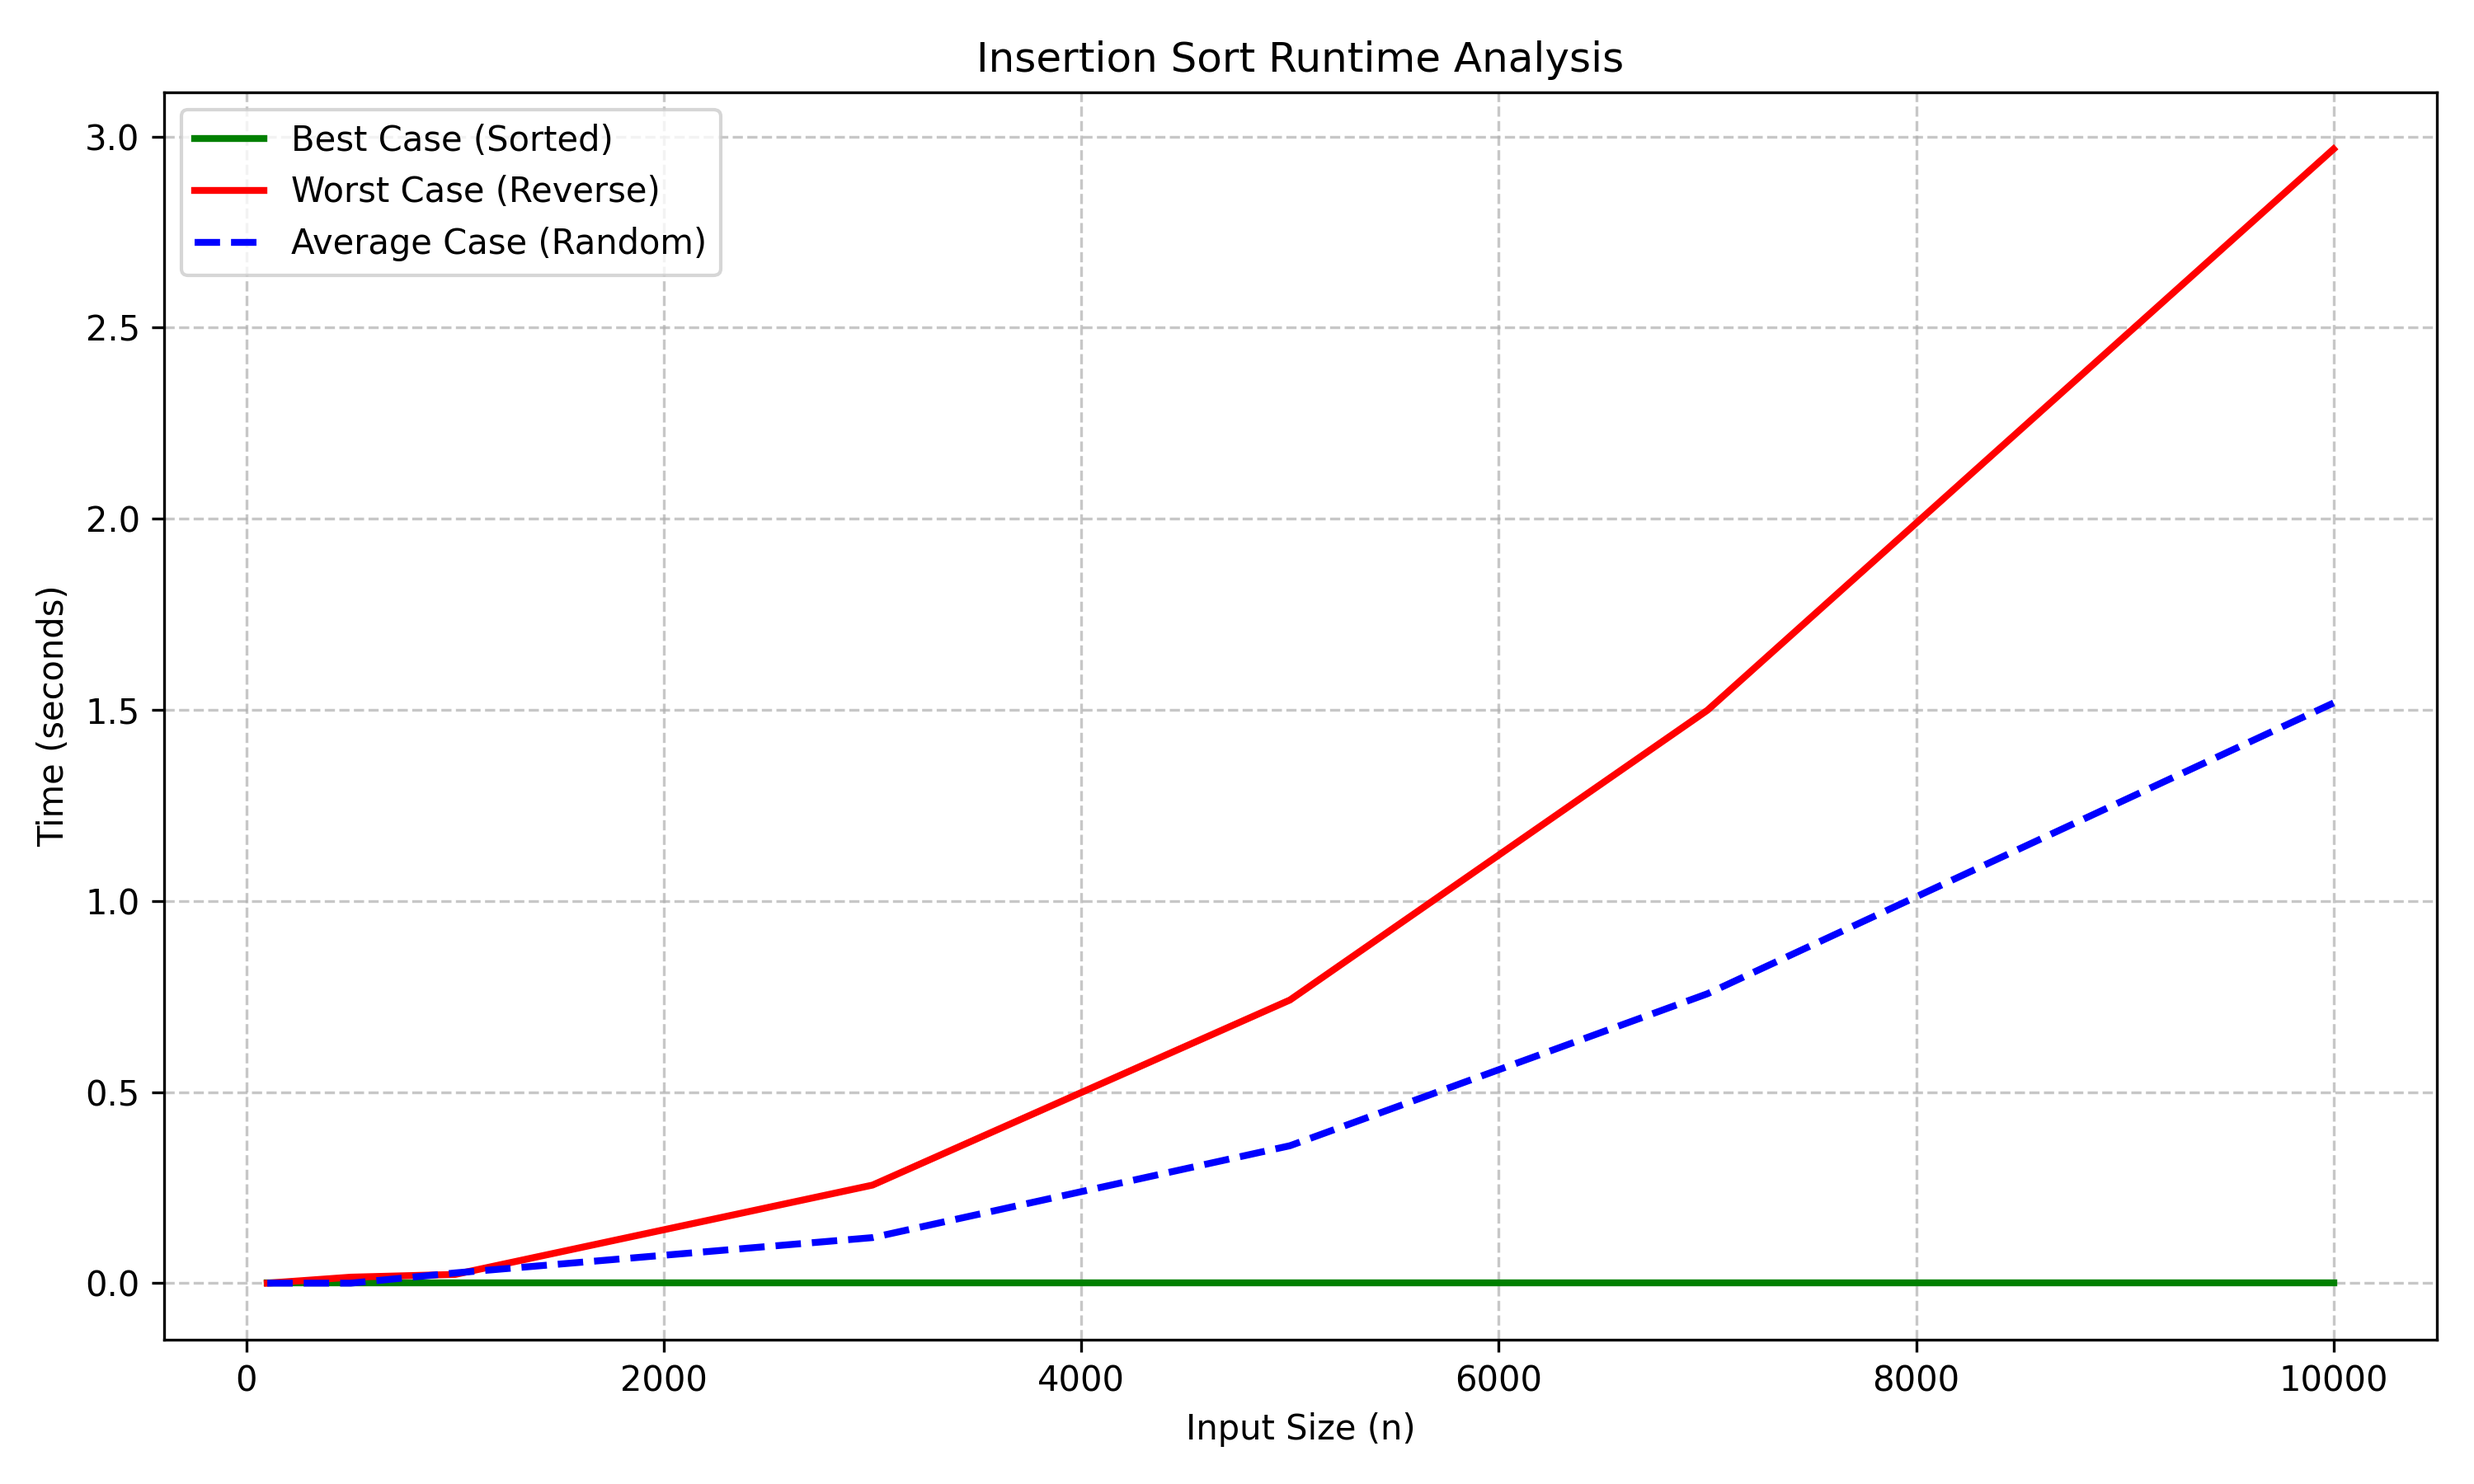
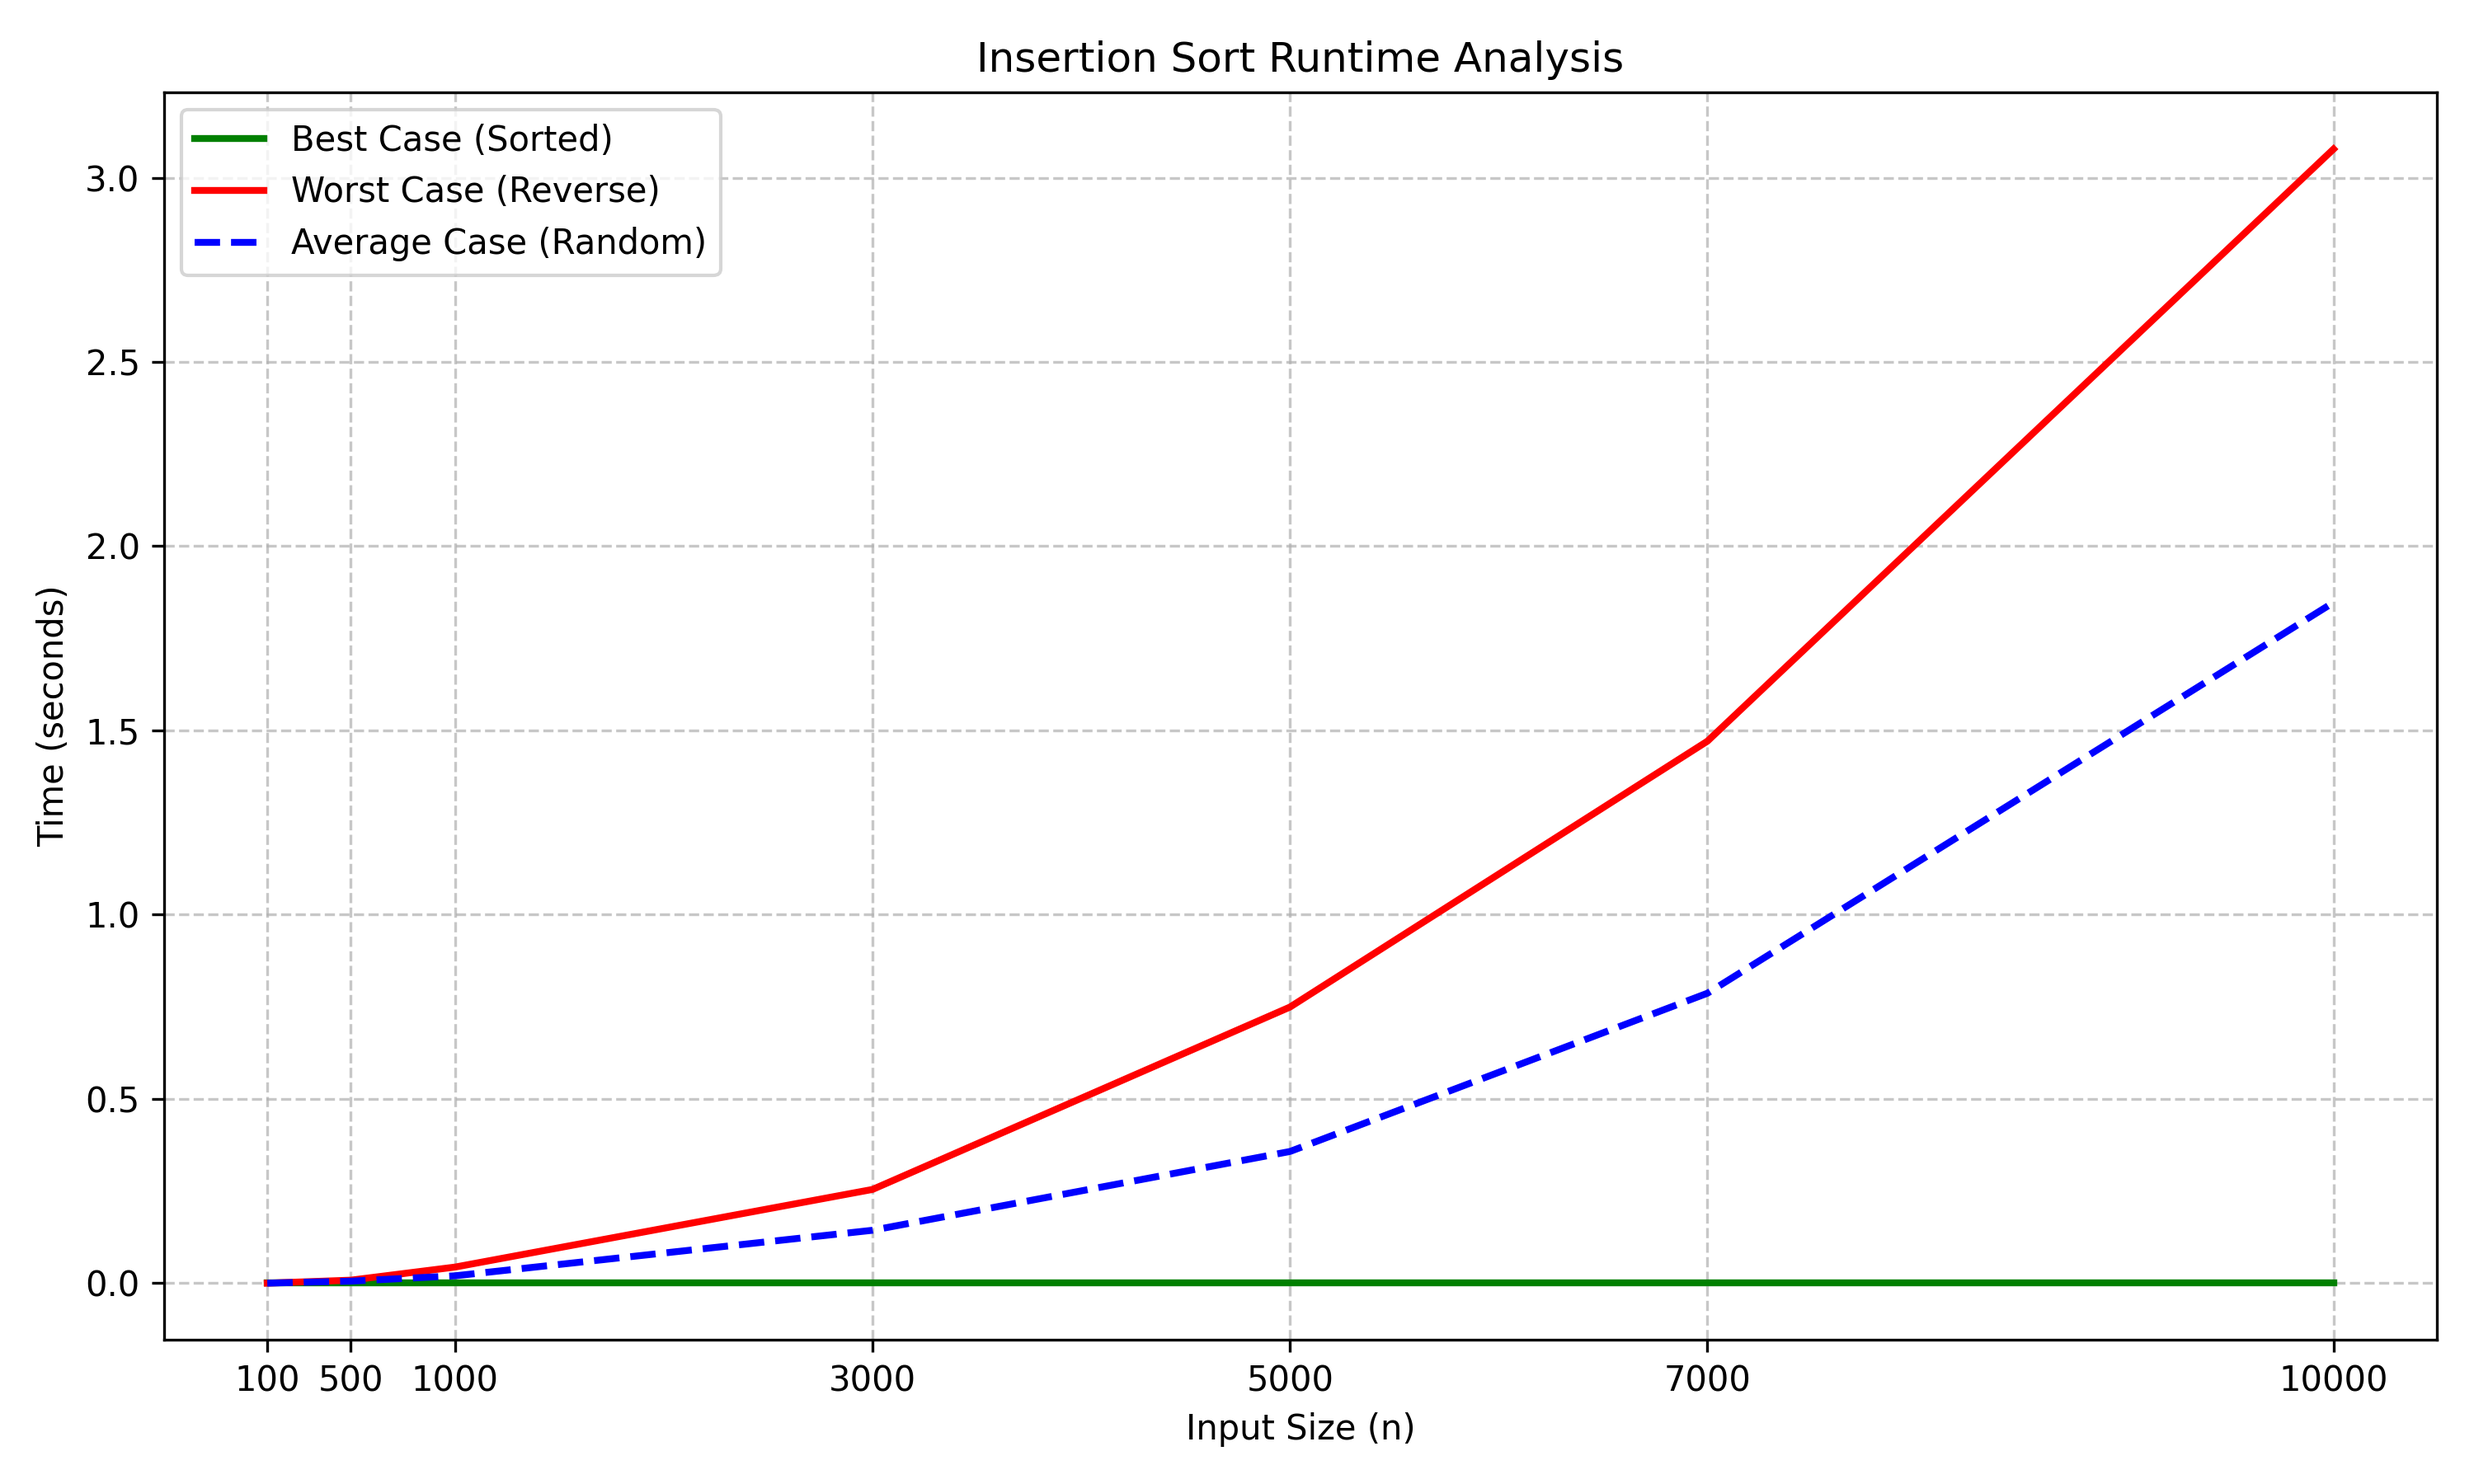
update

diff --git a/DSA-Sem2/week02/runtime_analasis.py b/DSA-Sem2/week02/runtime_analasis.py
@@ -58,12 +58,14 @@ def test_runtime():
         print(f"{n:<10} {best_time:<20.6f} {worst_time:<20.6f} {avg_time:<20.6f}")
     
     # Generate the plot (clean without time labels)
-    plt.figure(figsize=(10, 6))
-    plt.plot(sizes, best_times, 'g-', label='Best Case (Sorted)', linewidth=2)
-    plt.plot(sizes, worst_times, 'r-', label='Worst Case (Reverse)', linewidth=2)
-    plt.plot(sizes, avg_times, 'b--', label='Average Case (Random)', linewidth=2)
+    plt.figure(figsize=(10, 6))                                                    # Create a figure with specified size
+    plt.plot(sizes, best_times, 'g-', label='Best Case (Sorted)', linewidth=2)     # Plot best-case times in green solid line
+    plt.plot(sizes, worst_times, 'r-', label='Worst Case (Reverse)', linewidth=2)  # Plot worst-case times in red solid line
+    plt.plot(sizes, avg_times, 'b--', label='Average Case (Random)', linewidth=2)  # Plot average-case times in blue dashed line
     
-    plt.xlabel('Input Size (n)')
+    # Set plot labels and title
+    plt.xticks(sizes)  # Set x-ticks to the sizes for better readability
+    plt.xlabel('Input Size (n)') 
     plt.ylabel('Time (seconds)')
     plt.title('Insertion Sort Runtime Analysis')
     plt.grid(True, linestyle='--', alpha=0.7)
